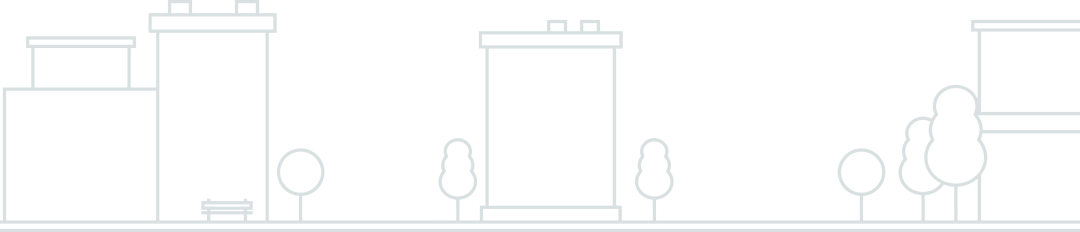
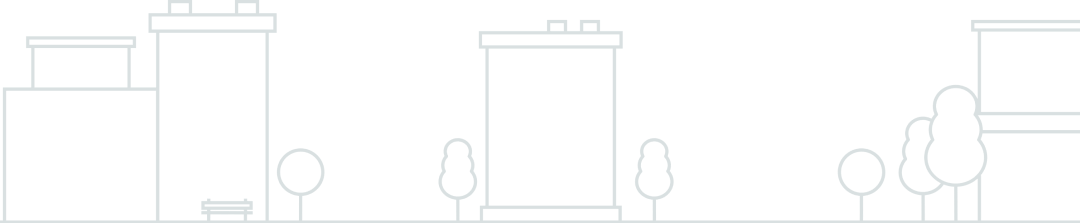
changes

diff --git a/css/main.css b/css/main.css
@@ -461,7 +461,7 @@ hr {
 
 .image-draw {
   padding-bottom: 21.5%;
-  background: transparent url("../images/image-lines.png") repeat center/contain;
+  background: transparent url("../images/image-lines.png") repeat-x center bottom/100%;
 }
 .image-card-bottom .image-col {
   height: 768px;
@@ -512,7 +512,7 @@ hr {
 .slide img {
   object-fit: cover;
   object-position: center;
-  height: calc(100vh - 108px);
+  height: calc(100vh - 125px);
 }
 
 .owl-stage {
@@ -527,11 +527,39 @@ hr {
   -ms-flex-align: center;
   align-items: center;
 }
+.owl-logos .owl-item {
+  min-height: 110px;
+  display: -webkit-box !important;
+  display: -moz-box !important;
+  display: -ms-flexbox !important;
+  display: -webkit-flex !important;
+  display: flex !important;
+  -webkit-align-items: center;
+  -moz-align-items: center;
+  -ms-align-items: center;
+  -ms-flex-align: center;
+  align-items: center;
+  -webkit-justify-content: center;
+  -moz-justify-content: center;
+  -ms-justify-content: center;
+  justify-content: center;
+  -ms-flex-pack: center;
+}
 .owl-logos img {
   margin: auto;
   max-width: 90%;
   max-height: 60px;
   width: auto !important;
+  -moz-transition: all 0.5s linear;
+  -o-transition: all 0.5s linear;
+  -webkit-transition: all 0.5s linear;
+  transition: all 0.5s linear;
+}
+.owl-logos .center.active img {
+  -webkit-transform: scale(1.4);
+  -moz-transform: scale(1.4);
+  -ms-transform: scale(1.4);
+  transform: scale(1.4);
 }
 .owl-carousel {
   width: 100.3%;
@@ -576,6 +604,9 @@ hr {
   right: 56px;
 }
 
+.carousel {
+  padding: 15px 15px 0;
+}
 .carousel-item img {
   -moz-transition: all 8.5s linear;
   -o-transition: all 8.5s linear;

diff --git a/scss/_style.scss b/scss/_style.scss
@@ -5,7 +5,7 @@
 .image{
 	&-draw{
 		padding-bottom: 21.5%;	
-		background: transparent url('../images/image-lines.png') repeat center / contain;
+		background: transparent url('../images/image-lines.png') repeat-x center bottom / 100%;
 	}
 
 	&-card{
@@ -70,7 +70,7 @@
 	img{
 		object-fit: cover;
 		object-position: center;
-		height: calc(100vh - 108px);
+		height: calc(100vh - 125px);
 	}
 }
 
@@ -81,11 +81,25 @@
 	}
 
 	&-logos{
+		.owl-item{
+			min-height: 110px;
+			@include flexbox();
+			@include align-items(center);
+			@include justify-content(center);
+		}
+
 		img{
 			margin: auto;
 			max-width: 90%;
 			max-height: 60px;
 			width: auto !important;
+			@include transition(all 0.5s linear);
+		}
+
+		.center.active{
+			img{
+				@include transform(scale(1.4));
+			}
 		}
 	}
 
@@ -139,15 +153,19 @@
 	}
 }
 
-.carousel-item{
-	img{
-		@include transition(all 8.5s linear);
-		@include transform(scale(1));
-	}
+.carousel{
+	padding: 15px 15px 0;
 
-	&.active{
+	&-item{
 		img{
-			@include transform(scale(1.2));
+			@include transition(all 8.5s linear);
+			@include transform(scale(1));
+		}
+
+		&.active{
+			img{
+				@include transform(scale(1.2));
+			}
 		}
 	}
 }

diff --git a/js/custom.js b/js/custom.js
@@ -6,10 +6,16 @@ $(document).ready(function(){
       margin:0,
       nav:false,
       dots: false,
+      center: true,
       autoplay:true,
-      autoplayTimeout:1000,
-      autoplayHoverPause:false,
-      slideSpeed: 500,
+      autoplayTimeout:1500,
+      // autoplayHoverPause:false,
+      // slideSpeed: 500,
+      // autoplay: true,
+      // autoplayTimeout: 0,
+      autoplaySpeed: 1500,
+      autoplayHoverPause: false,
+      slideTransition: 'linear',
       responsive : {
         0 : {
           items:3

diff --git a/screensaver.html b/screensaver.html
@@ -39,7 +39,7 @@
 			<img src="images/logo.svg" alt="logo" class="ss-logo" />
 		</div>
 
-		<div class="bg-white py-4">
+		<div class="bg-white">
 			<div class="owl-carousel owl-logos owl-theme">
 			    <div class="item"><img src="/images/Logo-1.png" alt="logo-1" /></div>
 			    <div class="item"><img src="/images/Logo-2.png" alt="logo-2" /></div>
